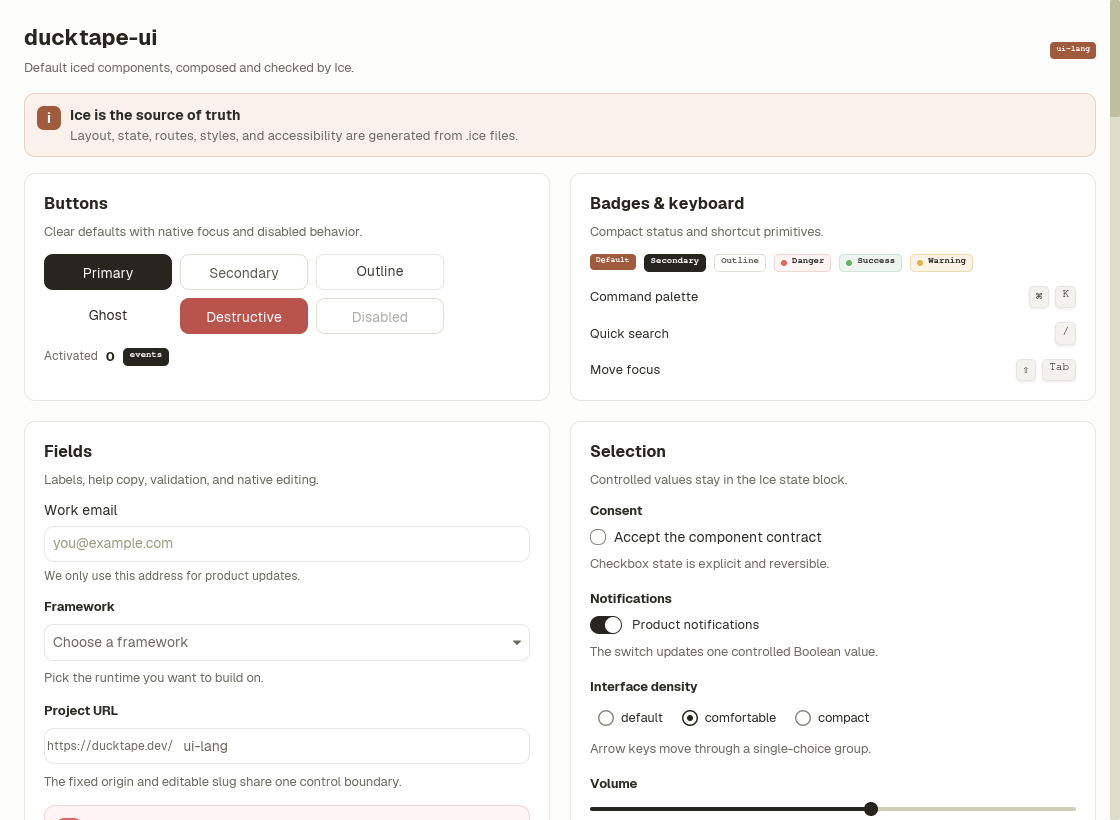
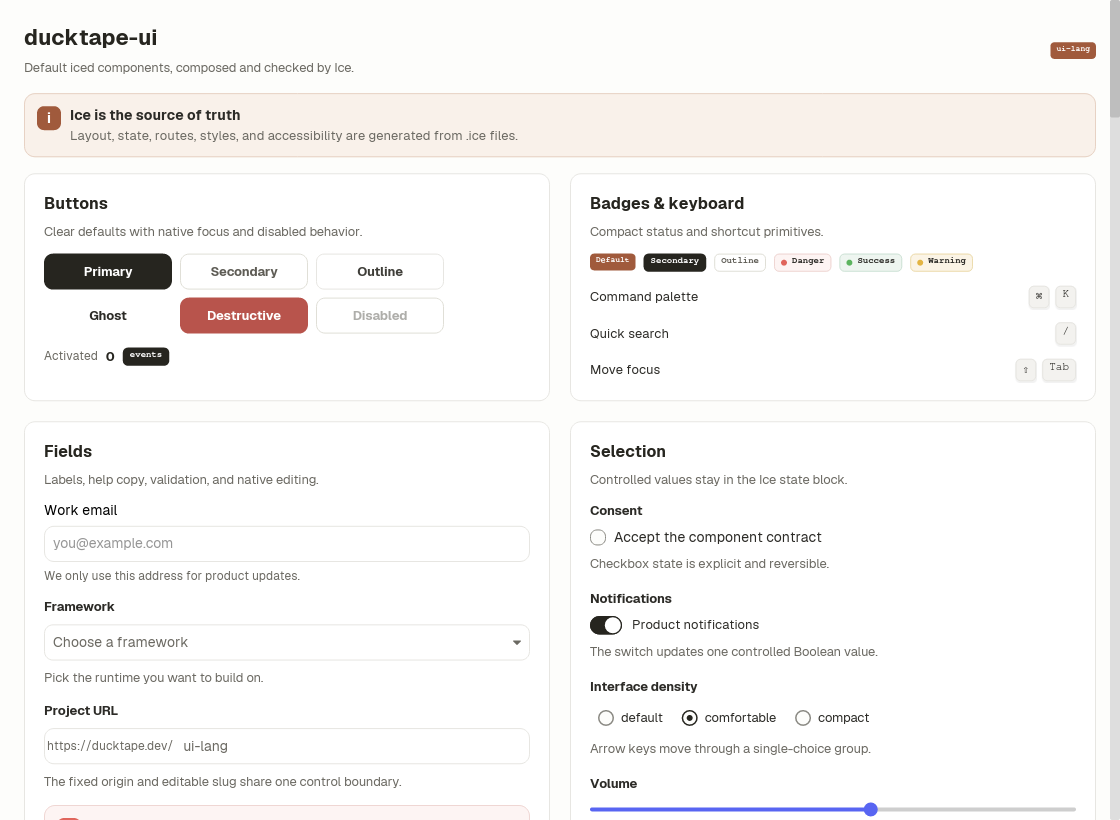
feat(ui): centralize button label typography

diff --git a/crates/ui-lang-runtime/src/testing.rs b/crates/ui-lang-runtime/src/testing.rs
@@ -4150,7 +4150,12 @@ where
         let (physical_size, expected_rgba_len) = self.checked_physical_size(scale_factor, source);
         let style = self.program.style(&self.state, theme);
         let cursor = self.cursor;
-        self.with_interface(|interface, renderer, _| {
+        let events = [iced::Event::Window(window::Event::RedrawRequested(
+            self.logical_time,
+        ))];
+        let rgba = self.with_interface(|interface, renderer, clipboard| {
+            let mut ignored_messages = Vec::new();
+            let _ = interface.update(&events, cursor, renderer, clipboard, &mut ignored_messages);
             interface.draw(
                 renderer,
                 theme,
@@ -4159,10 +4164,8 @@ where
                 },
                 cursor,
             );
+            renderer.screenshot(physical_size, scale_factor, style.background_color)
         });
-        let rgba = self
-            .renderer
-            .screenshot(physical_size, scale_factor, style.background_color);
         if rgba.len() != expected_rgba_len {
             let origin = failure_origin(self.test_name, source);
             panic!(
@@ -6189,6 +6192,20 @@ mod tests {
                 })
             }),
             "capture text fonts must use the structured conformance schema"
+        );
+        let increment = metadata["targets"]
+            .as_array()
+            .and_then(|targets| {
+                targets
+                    .iter()
+                    .find(|target| target["id"] == "App/root/increment")
+            })
+            .expect("capture includes the increment button");
+        let active_background = &increment["paint"]["surfaces"][0]["background"]["color"];
+        assert_eq!(active_background["a"], 1.0);
+        assert!(
+            (active_background["r"].as_f64().expect("red channel") - 0.2).abs() < 1.0e-6,
+            "capture must update native widget status before drawing: {active_background}"
         );
 
         std::fs::remove_dir_all(&artifact_dir).expect("remove test capture directory");

diff --git a/crates/ui-lang-core/src/check/style.rs b/crates/ui-lang-core/src/check/style.rs
@@ -401,15 +401,24 @@ pub(in crate::check) fn check_styles(
                 "overflow-hidden" => is_box,
                 utility if is_text_size_utility(utility) => matches!(
                     target,
-                    StyleTarget::Text(_) | StyleTarget::RichText { .. } | StyleTarget::RichSpan(_)
+                    StyleTarget::Text(_)
+                        | StyleTarget::RichText { .. }
+                        | StyleTarget::RichSpan(_)
+                        | StyleTarget::Button(_)
                 ),
                 utility if is_text_line_height_utility(utility) => matches!(
                     target,
-                    StyleTarget::Text(_) | StyleTarget::RichText { .. } | StyleTarget::RichSpan(_)
+                    StyleTarget::Text(_)
+                        | StyleTarget::RichText { .. }
+                        | StyleTarget::RichSpan(_)
+                        | StyleTarget::Button(_)
                 ),
                 "font-mono" | "font-medium" | "font-semibold" | "font-bold" => matches!(
                     target,
-                    StyleTarget::Text(_) | StyleTarget::RichText { .. } | StyleTarget::RichSpan(_)
+                    StyleTarget::Text(_)
+                        | StyleTarget::RichText { .. }
+                        | StyleTarget::RichSpan(_)
+                        | StyleTarget::Button(_)
                 ),
                 "border" | "border-2" => {
                     is_visual_box

diff --git a/crates/ui-lang-core/src/codegen/tests/controls.rs b/crates/ui-lang-core/src/codegen/tests/controls.rs
@@ -532,6 +532,50 @@ view
 }
 
 #[test]
+fn lowers_compact_button_label_typography_without_cascading_into_child_content() {
+    let source = r#"app Actions
+theme contract AppTheme
+  bg
+  fg
+  primary
+  danger
+palette app for AppTheme
+  bg #000000
+  fg #ffffff
+  primary #333333
+  danger #ff0000
+recipe action for button
+  @text-12.5px leading-snug font-mono font-semibold
+on pressed
+view
+  col
+    button "Compact" @action -> pressed
+    button label="Structured" @action -> pressed
+      row
+        text "Structured"
+        text "⌘S"
+"#;
+    let generated = compile(source, "button-label-typography.ice").unwrap();
+
+    assert!(generated.contains(
+        "::iced::widget::text(\"Compact\").size(12.5).line_height(::iced::widget::text::LineHeight::Relative(1.35)).font(::iced::Font { weight: ::iced::font::Weight::Semibold, ..::iced::Font::MONOSPACE }).into()"
+    ));
+    assert_eq!(generated.matches(".size(12.5)").count(), 1);
+    assert_eq!(
+        generated
+            .matches("::iced::widget::text::LineHeight::Relative(1.35)")
+            .count(),
+        1
+    );
+    assert_eq!(
+        generated
+            .matches("weight: ::iced::font::Weight::Semibold")
+            .count(),
+        1
+    );
+}
+
+#[test]
 fn lowers_semantic_disabled_button_colors() {
     let source = r#"app Actions
 theme contract AppTheme

diff --git a/crates/cargo-ice/src/schema.rs b/crates/cargo-ice/src/schema.rs
@@ -1836,7 +1836,7 @@ fn style_contract() -> Value {
             "alignment": { "targets": ["row", "col", "flex"], "forms": ["items-center"] },
             "overflow": { "targets": ["row", "col", "flex", "grid", "stack", "box"], "forms": ["overflow-hidden"] },
             "text": {
-                "targets": ["text"],
+                "targets": ["text", "button (compact label only)"],
                 "forms": ["text-xs", "text-sm", "text-base", "text-lg", "text-xl", "text-2xl", "leading-tight", "leading-snug", "leading-normal", "leading-relaxed", "font-mono", "font-medium", "font-semibold", "font-bold"],
             },
             "semantic": ["bg-TOKEN", "text-TOKEN", "border-TOKEN", "border", "border-2", "rounded-*", "state variants"],
@@ -2950,6 +2950,10 @@ mod tests {
             ])
         );
         assert_eq!(styles["recipes"]["composition"]["bases"], 1);
+        assert_eq!(
+            styles["utilities"]["text"]["targets"],
+            serde_json::json!(["text", "button (compact label only)"])
+        );
         assert_eq!(schema["core"]["components"]["defaults"]["optional"], true);
         assert_eq!(
             schema["core"]["components"]["defaults"]["requiredAfterDefault"],

diff --git a/crates/ui-lang-core/src/codegen/tests/layout.rs b/crates/ui-lang-core/src/codegen/tests/layout.rs
@@ -78,7 +78,7 @@ view
 fn lowers_exact_pixel_recipe_utilities() {
     let source = r#"app ExactRecipes
 recipe action for button
-  px-16px py-11px rounded-9px bg-primary text-primary_fg
+  px-16px py-11px rounded-9px bg-primary text-primary_fg text-12.5px leading-snug font-semibold
 recipe danger_action for button extends action
   bg-danger
 recipe caption for text
@@ -106,6 +106,9 @@ view
     assert!(generated.contains("top: 11.0, right: 16.0, bottom: 11.0, left: 16.0"));
     assert!(generated.contains("__style.border.radius = 9.0.into()"));
     assert!(generated.contains(".size(12.5)"));
+    assert!(generated.contains(
+        "::iced::widget::text(\"Delete\").size(12.5).line_height(::iced::widget::text::LineHeight::Relative(1.35)).font(::iced::Font { weight: ::iced::font::Weight::Semibold, ..::iced::Font::DEFAULT }).into()"
+    ));
     assert!(generated.contains("::iced::Color::from_rgba8(204, 0, 0, 1.000000)"));
 
     let error = compile(

diff --git a/crates/ui-lang-core/src/codegen/view/controls.rs b/crates/ui-lang-core/src/codegen/view/controls.rs
@@ -51,7 +51,9 @@ pub(in crate::codegen) fn render_controls(
                 render_node(content, document, message, env, &child_scope, slot)?
             } else {
                 let label = rust_string(label.as_ref().expect("button label"));
-                format!("::iced::widget::text({label}).into()")
+                let mut label = format!("::iced::widget::text({label})");
+                append_text_options(&mut label, &TextOptions::default(), &style, env, document)?;
+                format!("{label}.into()")
             };
             let center_x = matches!(options.width.as_ref(), Some(LengthValue::Fixed(_)));
             let center_y = matches!(options.height.as_ref(), Some(LengthValue::Fixed(_)));

diff --git a/crates/ui/src/ui/theme.rs b/crates/ui/src/ui/theme.rs
@@ -801,6 +801,7 @@ mod tests {
         let components = include_str!("../ice/components.ice");
 
         assert!(recipes.contains("bg-primary text-primary_fg"));
+        assert_eq!(recipes.matches("text-12.5px font-semibold px-").count(), 5);
         assert!(recipes.contains("px-16px py-11px"));
         assert!(recipes.contains("disabled:bg-disabled disabled:text-disabled_fg"));
         assert!(recipes.contains("px-12px py-8px"));

diff --git a/crates/ui-lang-core/src/check/tests/widgets.rs b/crates/ui-lang-core/src/check/tests/widgets.rs
@@ -249,7 +249,7 @@ palette app for AppTheme
 on pressed
 view
   col gap=1.0
-    button "Save" @px-16px py-11px rounded-9px bg-primary text-fg -> pressed
+    button "Save" @px-16px py-11px rounded-9px bg-primary text-fg text-12.5px leading-snug font-semibold -> pressed
     text "Body" @text-13.5px
 "#;
     analyze(source).unwrap();

diff --git a/SPEC.md b/SPEC.md
@@ -1565,7 +1565,10 @@ and status lines are the final overrides.
 node. The compact string is its default accessible name; child content requires
 an explicit checked `label=`, and either form may add `description=`. It also
 supports typed width/height, non-negative padding, bool clipping, disabled
-routing, all eight iced presets, and checked style utilities. Optional `active`,
+routes, all eight iced presets, and checked style utilities. Text size,
+line-height, family, and weight utilities style the generated text of a compact
+string label. Arbitrary child content owns its own typography, so those button
+utilities do not cascade into child nodes. Optional `active`,
 `hovered`, `pressed`, and `disabled` child lines override every concrete button
 style field with solid/linear backgrounds, text, per-corner border, shadow, and
 pixel snapping. A structured content node may appear beside these status lines.
@@ -2710,7 +2713,7 @@ The implemented native nodes are:
 | `rich-text` | optional ID, zero or more structured spans with rich defaults, complete span highlights and optional string link events |
 | `panes` | named pane trees backed by recursive persistent split state, structured title/full/compact controls, complete concrete state and surface styles with linear backgrounds, closed panes, list-keyed runtime templates, typed dynamic references, click, resize and drag/drop behavior |
 | `input` | required `str` binding; checked accessible label/description, `TextInput` or value-suppressing `PasswordInput` role, ID, hint, disabled/secure, submit/paste, every concrete builder setter, complete icon, all concrete status style fields, and typed native runtime style callbacks |
-| `button` | string label or one child; checked accessible label/description with an explicit label required for child content, `Button` role and keyboard activation, optional ID/disabled, typed size/padding/clip, eight presets, complete status styles, typed native runtime style callbacks and required route |
+| `button` | string label or one child; checked accessible label/description with an explicit label required for child content, compact-label typography utilities, `Button` role and keyboard activation, optional ID/disabled, typed size/padding/clip, eight presets, complete status styles, typed native runtime style callbacks and required route |
 | `checkbox` | string label, optional accessible label/description, `CheckBox` role and keyboard activation, bool value/route, disabled, sizing/typography/wrapping/font, custom icon, four presets and complete checked-aware status styles |
 | `toggler` | string label, optional ID, bool value/route, disabled, sizing/typography/wrapping/font/alignment and complete checked-aware status styles |
 | `slider` | optional ID, `f64` or typed extern numeric value/range/default/normal+shift steps, direction-aware sizing, change/release routes and nested status styles |
@@ -4708,7 +4711,10 @@ transparent/red `diff.png`, then exits unsuccessfully for a disallowed delta.
 Artifact names, PNG filenames, and capture-statement labels are reported as
 ignored identity fields; all rendered and environmental fields participate.
 Capture remains observation-only; golden policy belongs to tooling rather
-than runtime behavior.
+than runtime behavior. A capture delivers a redraw request to the same native
+widget tree immediately before drawing so status-aware widgets render their
+current active, hovered, pressed, or disabled style; messages produced by that
+observational redraw are not applied to application state.
 
 `dispatch` constructs the checked message for a top-level handler;
 component-local handlers remain private and are exercised through their
@@ -4936,7 +4942,7 @@ recipe panel for box
   @w-full p-5 bg-surface border border-border rounded-lg overflow-hidden
 
 recipe action for button
-  @px-4 py-2 rounded-md disabled:bg-disabled disabled:text-disabled_fg
+  @text-12.5px font-semibold px-4 py-2 rounded-md disabled:bg-disabled disabled:text-disabled_fg
 
 recipe primary_action for button extends action
   @bg-primary text-primary_fg
@@ -4980,10 +4986,10 @@ The accepted utility surface is:
 | overflow | `overflow-hidden` | row, col, flex, grid, stack, box |
 | gap | scaled `gap-*` or exact `gap-Npx` | row, col, flex, grid, stack |
 | padding | scaled `p-*`, `px-*`, `py-*` or exact `p-Npx`, `px-Npx`, `py-Npx` | row, col, flex, grid, stack, box, input, button |
-| text size | `text-xs` through `text-2xl` or exact positive `text-Npx` | text |
-| line height | `leading-tight`, `leading-snug`, `leading-normal`, `leading-relaxed` | text |
-| text family | `font-mono` | text |
-| text weight | `font-medium`, `font-semibold`, `font-bold` | text |
+| text size | `text-xs` through `text-2xl` or exact positive `text-Npx` | text; compact button label |
+| line height | `leading-tight`, `leading-snug`, `leading-normal`, `leading-relaxed` | text; compact button label |
+| text family | `font-mono` | text; compact button label |
+| text weight | `font-medium`, `font-semibold`, `font-bold` | text; compact button label |
 | color | `bg-TOKEN`, `text-TOKEN`, `border-TOKEN` | checked per widget |
 | border | `border`, `border-2` | visual layout wrappers, box, input, and button |
 | radius | `rounded-sm`, `rounded`, `rounded-md`, `rounded-lg`, `rounded-full`, or exact `rounded-Npx` | layout wrappers, input, and button |

diff --git a/COVERAGE.md b/COVERAGE.md
@@ -103,10 +103,14 @@ package checked utility tokens for one declared target (`col`, `row`, `flex`,
 one same-target base, expand base-first across imported source graphs, preserve
 child and later-utility precedence, and let direct typed node properties
 override recipe defaults. Scaled utilities and exact-pixel spacing,
-radius, and decimal text sizes share that checked lowering path. Every recipe
+radius, and decimal text sizes share that checked lowering path. Button-target
+text size, line-height, family, and weight utilities lower onto the generated
+text for compact string labels; arbitrary child content retains explicit
+ownership of its own typography. Every recipe
 is checked at declaration time, including unused imported recipes. Parser,
 checker, and codegen tests
-cover expansion, typed overrides, typography, invalid bodies, duplicate
+cover expansion, typed overrides, compact button label typography, explicit
+child typography ownership, invalid bodies, duplicate
 declarations, target mismatch, and semantic disabled button background/text
 overrides. Recipe definitions and references also
 participate in cross-file LSP definition and safe rename. The workspace-local
@@ -153,7 +157,10 @@ layout bounds, primitive counts, text/image bounds and baseline, scale-aware
 pixel alignment, focus, and unambiguous structured tiny-skia paint output;
 named captures persist PNG plus a versioned JSON frame manifest with separate
 configured, resolved-render, and system theme fields, and retain RGBA output
-for runtime callers. Generated identified targets retain their originating
+for runtime callers. The capture draw updates the same native widget tree with
+a redraw request first, so status-aware controls do not fall back to disabled
+paint; redraw-emitted messages remain unapplied and capture stays
+observation-only. Generated identified targets retain their originating
 imported `.ice` path, line, and column. `cargo ice inspect` activates an
 otherwise inert generated entry for one real app `Program`, fixed environment,
 and preset; `cargo ice diff` externally compares structured values and RGBA
@@ -294,7 +301,7 @@ public behavior has direct documented Ice syntax and tests.
 
 | iced surface | Ice status | Current representation / missing work |
 | --- | --- | --- |
-| `button` | native | native string or arbitrary child content, disabled route, typed size/padding/clip, all eight iced presets, every concrete field across all four statuses including linear backgrounds, and typed theme/status-aware runtime callbacks covering the default Theme's advanced classes |
+| `button` | native | native string or arbitrary child content, compact-label typography utilities, disabled route, typed size/padding/clip, all eight iced presets, every concrete field across all four statuses including linear backgrounds, and typed theme/status-aware runtime callbacks covering the default Theme's advanced classes |
 | `canvas` | native | declarative rectangle/circle/line/text/path geometry; complete path builder segments, fill rules, solid/linear fill and stroke, caps/joins/dashes, transforms, clips, typed `if`/`for`, complete raster/SVG frame drawing fields, dependency-keyed geometry cache with shared named groups, typed local `Program::State`, all five event families and every variant, state updates, publish/capture/next-frame/timed-redraw actions, pointer routes, and static/state-dependent/out-of-bounds interaction cover the complete public Program behavior |
 | `checkbox` | native | native label/value/disabled event, size/width/spacing, text typography/wrapping, complete font descriptors and custom icon; all four presets, every concrete Style field across active/hovered/disabled checked and unchecked statuses, and typed theme/status-aware runtime callbacks covering the default Theme's advanced classes |
 | `column` | native | children, typed spacing/per-side padding, all `Length` bounds, max width, cross-axis alignment, clipping and wrapping column spacing/alignment |

diff --git a/skills/design-ice-ui/references/design-workflow.md b/skills/design-ice-ui/references/design-workflow.md
@@ -11,6 +11,7 @@ produce a React-shaped mockup that must be translated later.
 - [Choose the view structure](#choose-the-view-structure)
 - [Choose component boundaries](#choose-component-boundaries)
 - [Build the visual system](#build-the-visual-system)
+- [Audit component internals](#audit-component-internals)
 - [Design every interaction state](#design-every-interaction-state)
 - [Design responsive native layout](#design-responsive-native-layout)
 - [Preserve accessibility](#preserve-accessibility)
@@ -125,6 +126,41 @@ declare one target-specific semantic `recipe` and import it with the theme.
 Use a component only when structure or behavior repeats. Use structured native
 status blocks only for meaningful state deltas.
 
+## Audit component internals
+
+Treat a control as a contract, not just an outer rectangle. For every repeated
+control role, record and verify:
+
+| Layer | Required checks |
+| --- | --- |
+| outer box | width, height, border, radius, and target size |
+| inner geometry | horizontal and vertical padding, icon gap, content alignment |
+| label | font family, size, weight, line height, clipping, and baseline/center |
+| states | normal, hover, pressed, focus, disabled, loading, and selected where relevant |
+| semantics | accessible name, role, disabled state, and focus order |
+
+Make the semantic recipe own every repeated value that its target can lower.
+For a text-only action, use compact `button "Label" @recipe`; the recipe owns
+the generated label metrics. Use child content only when the button truly has
+structure such as an icon-and-label row, and then style that child explicitly.
+An otherwise redundant label component is evidence that the recipe or compiler
+contract is incomplete; fix that source of truth before multiplying wrappers.
+
+For fixed-height controls, calculate the content budget before rendering:
+
+```text
+content height = control height - vertical padding - vertical border
+```
+
+The label line box must fit that budget. Then verify the rendered `text_y` is
+the control's vertical center; equal outer heights alone do not prove correct
+internal alignment.
+
+Inventory every instance of the role, including conditional branches and the
+bottom of scrollable views. Compare at least one wide and one narrow viewport,
+and exercise every materially distinct state. A polished first screen is not a
+completed full-screen audit.
+
 ## Design every interaction state
 
 For every effectful screen, cover:
@@ -189,7 +225,8 @@ Implement in this order:
 5. Build the view tree from recipes and typed local exceptions.
 6. Extract only proven structural component boundaries.
 7. Add status styling and polish.
-8. Check accessibility labels and source order.
+8. Audit control internals across roles, states, breakpoints, and scroll extent.
+9. Check accessibility labels and source order.
 
 Then:
 

diff --git a/skills/design-ice-ui/references/views-and-style.md b/skills/design-ice-ui/references/views-and-style.md
@@ -225,6 +225,11 @@ button #help label="Open help" description="Keyboard shortcuts" -> open_help
 
 A route is required. A child-content button must declare `label=` because the
 compiler cannot derive a stable accessible name from arbitrary children.
+Button-target `text-*`, `leading-*`, and `font-*` utilities style the generated
+text in the compact form. Child-content buttons keep typography on their
+explicit child nodes; button typography utilities do not cascade into them.
+Use compact form for a text-only action instead of creating a child component
+solely to repair label size or weight.
 
 ### Checkbox
 
@@ -342,7 +347,7 @@ recipe panel for box
   @w-full p-5 bg-surface border border-border rounded-lg overflow-hidden
 
 recipe primary_action for button
-  @px-4 py-2 bg-primary text-primary_fg rounded-md
+  @text-12.5px font-semibold px-4 py-2 bg-primary text-primary_fg rounded-md
   @hover:bg-primary/90 pressed:bg-primary/80 disabled:opacity-50
 
 view
@@ -401,6 +406,7 @@ four logical pixels per unit. An integer `px` suffix selects exact spacing or
 radius; exact text sizes may be positive finite decimals. Opacity utility
 values are `0 25 50 75 100`.
 
+On a button target, text utilities apply only to its generated compact label.
 Text font utilities are exact: `font-mono` selects iced's generic monospace
 family, while `font-medium`, `font-semibold`, and `font-bold` select weights
 500, 600, and 700 respectively. A typed `font=` family composes with a weight
@@ -503,6 +509,10 @@ Before finishing a view:
 - Use `for`/`keyed` instead of duplicated nodes.
 - Use typed properties before utilities.
 - Use only declared theme tokens.
+- Make each repeated control recipe own label metrics as well as surface and
+  geometry; use explicit child typography only for genuinely structured content.
 - Label child-content buttons and meaningful images.
+- For fixed-height controls, verify the label line box fits within height minus
+  vertical padding and borders, and inspect its measured vertical center.
 - Give repeated stateful components stable IDs.
 - Run LSP formatting, then `cargo ice fmt` and `cargo ice check`.
